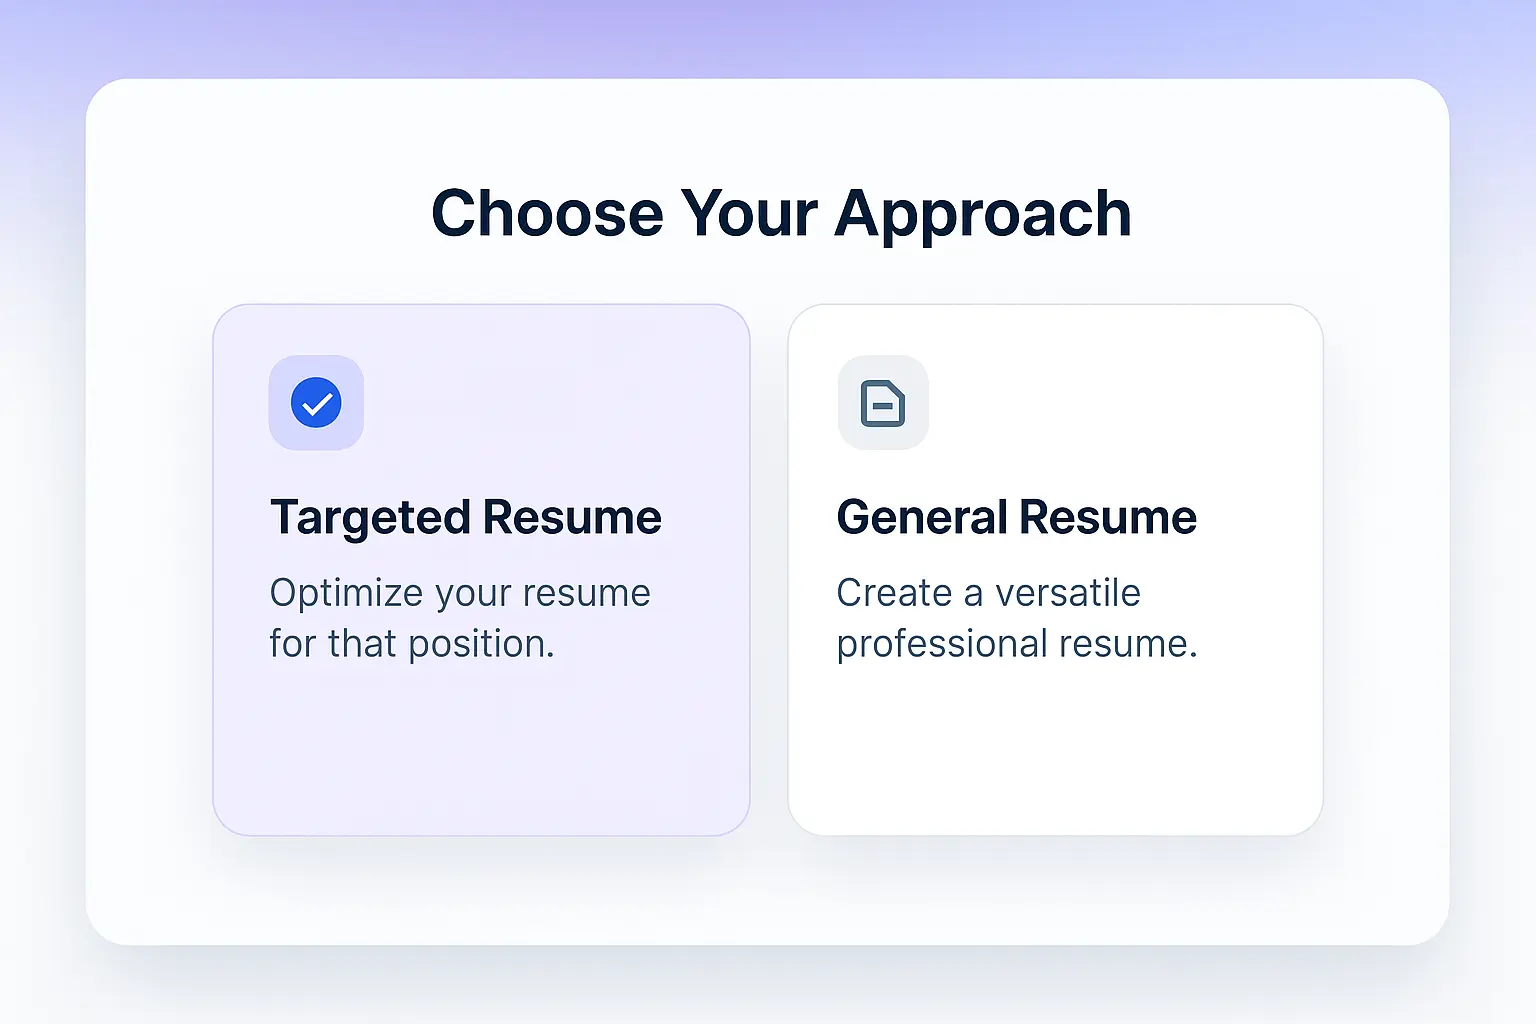
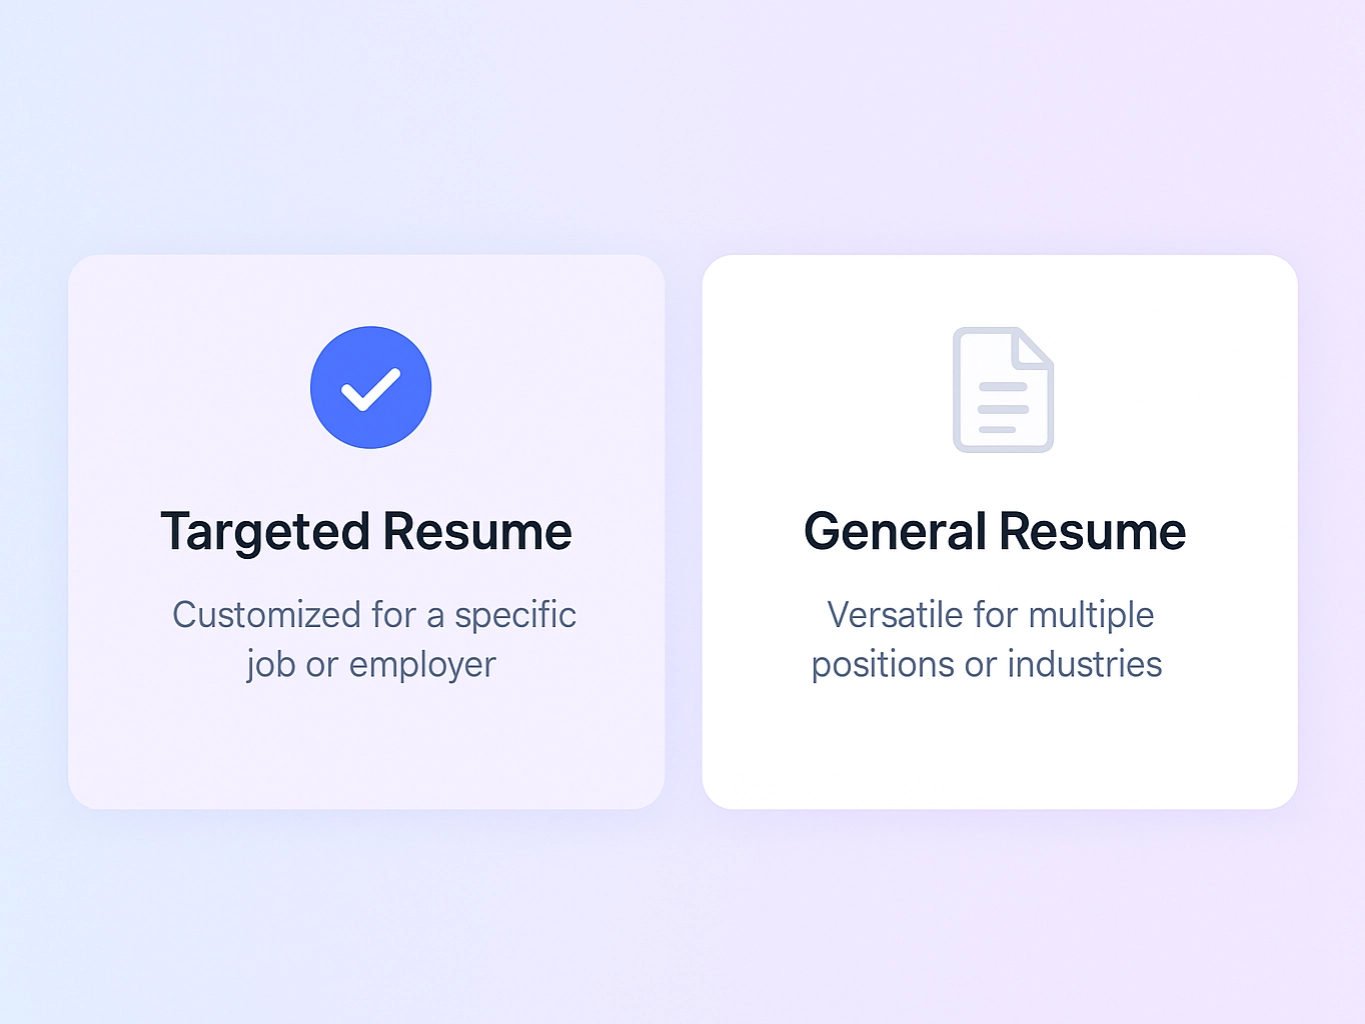
feat: images and design

diff --git a/components/marketing/HowItWorks.tsx b/components/marketing/HowItWorks.tsx
@@ -20,17 +20,17 @@ const HowItWorks = () => {
       titleColor: 'from-blue-600 to-purple-600',
       description: (
         <div className="space-y-3">
-          <p className="text-blue-600 font-bold">
+          <p className="text-gray-700 font-bold">
             Have a specific job in mind?
           </p>
           <p className="text-gray-700 text-sm">
-            Optimize your resume for that <span className="text-purple-600 font-bold">position</span>.
+            Optimize your resume for that position.
           </p>
-          <p className="text-blue-600 font-bold mt-3">
+          <p className="text-gray-700 font-bold mt-3">
             Want a general resume?
           </p>
           <p className="text-gray-700 text-sm">
-            Create a <span className="text-green-600 font-bold">versatile professional</span> resume.
+            Create a versatile professional resume.
           </p>
         </div>
       ),
@@ -44,16 +44,16 @@ const HowItWorks = () => {
       description: (
         <div className="space-y-3">
           <p className="text-gray-700 font-medium">
-            Upload your <span className="text-blue-600 font-bold">current resume</span>, paste text, or connect <span className="text-purple-600 font-bold">LinkedIn</span>.
+            Upload your <span className="text-blue-600 font-bold">current resume</span> or paste text.
           </p>
-          <p className="text-green-600 font-bold mt-3">
+          <p className="text-gray-700 font-bold mt-3">
             No work experience? Include:
           </p>
           <ul className="text-gray-700 text-sm space-y-1 ml-2">
-            <li>• <span className="text-blue-600 font-bold">Academic</span> or personal projects</li>
+            <li>• <span className="text-purple-600 font-bold">Academic</span> or personal projects</li>
             <li>• <span className="text-purple-600 font-bold">Internships</span> or volunteering</li>
-            <li>• Courses and <span className="text-green-600 font-bold">certifications</span></li>
-            <li>• <span className="text-blue-600 font-bold">Technical skills</span></li>
+            <li>• Courses and <span className="text-purple-600 font-bold">certifications</span></li>
+            <li>• <span className="text-purple-600 font-bold">Technical skills</span></li>
           </ul>
         </div>
       ),
@@ -66,18 +66,17 @@ const HowItWorks = () => {
       titleColor: 'from-green-600 to-blue-600',
       description: (
         <div className="space-y-3">
-          <p className="text-gray-700 font-medium">
-            In <span className="text-green-600 font-bold">30 seconds</span>, our{' '}
+          <p className="text-gray-700 font-bold">
+            In 30 seconds, our{' '}
             <span className="bg-gradient-to-r from-blue-600 to-purple-600 bg-clip-text text-transparent font-bold">
               AI
             </span>:
           </p>
           <ul className="text-gray-700 text-sm space-y-1">
-            <li>• <span className="font-bold">Rewrites</span> bullets with <span className="text-blue-600 font-bold">impact verbs</span></li>
-            <li>• <span className="text-green-600 font-bold">Quantifies</span> achievements when possible</li>
-            <li>• <span className="font-bold">Extracts</span> and adds <span className="text-purple-600 font-bold">relevant keywords</span></li>
-            <li>• <span className="font-bold">Optimizes</span> format to pass <span className="text-blue-600 font-bold">ATS</span></li>
-            <li>• <span className="font-bold">Generates</span> <span className="text-green-600 font-bold">professional summary</span></li>
+            <li>• <span className="text-blue-600 font-bold">Rewrites</span> bullets with <span className=" font-bold">impact verbs</span></li>
+            <li>• <span className="text-blue-600 font-bold">Extracts</span> and adds <span className="font-bold">relevant keywords</span></li>
+            <li>• <span className="text-blue-600 font-bold">Optimizes</span> format to pass <span className=" font-bold">ATS</span></li>
+            <li>• <span className="text-blue-600 font-bold">Generates</span> <span className="font-bold">professional summary</span></li>
           </ul>
         </div>
       ),
@@ -90,13 +89,13 @@ const HowItWorks = () => {
       titleColor: 'from-blue-600 to-green-600',
       description: (
         <div className="space-y-3">
-          <p className="text-blue-600 font-bold">
+          <p className="text-gray-700 font-bold">
             Your resume is ready:
           </p>
           <ul className="text-gray-700 text-sm space-y-1">
             <li>• <span className="text-green-600 font-bold">ATS score</span> + suggestions (if targeted)</li>
-            <li>• Professional <span className="text-purple-600 font-bold">PDF</span> with <span className="text-green-600 font-bold">no paywall</span></li>
-            <li>• <span className="text-blue-600 font-bold">Editable</span> anytime</li>
+            <li>• Professional <span className="text-green-600 font-bold">PDF</span> with <span className="text-green-600 font-bold">no paywall</span></li>
+            <li>• <span className="text-green-600 font-bold">Editable</span> anytime</li>
           </ul>
         </div>
       ),
@@ -143,10 +142,10 @@ const HowItWorks = () => {
                 {step.description}
               </div>
 
-              <div className="aspect-[4/3] bg-gray-100 rounded-lg sm:rounded-xl overflow-hidden shadow-md mt-auto relative">
+              <div className="aspect-[4/3] bg-gray-100 shadow-md mt-auto relative">
                 <img
                   alt={step.altText}
-                  className="w-full h-full object-cover"
+                  className="w-full h-full object-fill rounded-xl"
                   src={step.imageUrl}
                 />
               </div>

diff --git a/components/marketing/WhyYoursDontWork.tsx b/components/marketing/WhyYoursDontWork.tsx
@@ -23,8 +23,8 @@ const WhyYoursDontWork = () => {
   const problems = [
     {
       icon: (
-        <div className="w-12 h-12 rounded-full bg-gray-100 flex items-center justify-center">
-          <svg className="w-6 h-6 text-gray-600" fill="none" stroke="currentColor" viewBox="0 0 24 24">
+        <div className="w-12 h-12 rounded-full bg-blue-100 flex items-center justify-center">
+          <svg className="w-6 h-6 text-blue-600" fill="none" stroke="currentColor" viewBox="0 0 24 24">
             <path strokeLinecap="round" strokeLinejoin="round" strokeWidth={2} d="M9.75 17L9 20l-1 1h8l-1-1-.75-3M3 13h18M5 17h14a2 2 0 002-2V5a2 2 0 00-2-2H5a2 2 0 00-2 2v10a2 2 0 002 2z" />
           </svg>
         </div>
@@ -74,8 +74,8 @@ const WhyYoursDontWork = () => {
     },
     {
       icon: (
-        <div className="w-12 h-12 rounded-full bg-purple-100 flex items-center justify-center">
-          <svg className="w-6 h-6 text-purple-600" fill="none" stroke="currentColor" viewBox="0 0 24 24">
+        <div className="w-12 h-12 rounded-full bg-blue-100 flex items-center justify-center">
+          <svg className="w-6 h-6 text-blue-600" fill="none" stroke="currentColor" viewBox="0 0 24 24">
             <path strokeLinecap="round" strokeLinejoin="round" strokeWidth={2} d="M9 12h6m-6 4h6m2 5H7a2 2 0 01-2-2V5a2 2 0 012-2h5.586a1 1 0 01.707.293l5.414 5.414a1 1 0 01.293.707V19a2 2 0 01-2 2z" />
           </svg>
         </div>
@@ -119,8 +119,8 @@ const WhyYoursDontWork = () => {
     },
     {
       icon: (
-        <div className="w-12 h-12 rounded-full bg-green-100 flex items-center justify-center">
-          <svg className="w-6 h-6 text-green-600" fill="none" stroke="currentColor" viewBox="0 0 24 24">
+        <div className="w-12 h-12 rounded-full bg-blue-100 flex items-center justify-center">
+          <svg className="w-6 h-6 text-blue-600" fill="none" stroke="currentColor" viewBox="0 0 24 24">
             <path strokeLinecap="round" strokeLinejoin="round" strokeWidth={2} d="M12 8v4l3 3m6-3a9 9 0 11-18 0 9 9 0 0118 0z" />
           </svg>
         </div>
@@ -175,7 +175,7 @@ const WhyYoursDontWork = () => {
               {/* Icon and Title */}
               <div className="mb-3 sm:mb-4">
                 {problem.icon}
-                <h3 className={`text-base sm:text-lg font-bold ${problem.titleColor} mt-3`}>
+                <h3 className={`text-base sm:text-lg font-bold text-blue-600 mt-3`}>
                   {problem.title}
                 </h3>
                 <p className="text-xs sm:text-sm text-gray-500 font-medium">
@@ -206,7 +206,7 @@ const WhyYoursDontWork = () => {
                 ResumeSmart
                 </span>{' '}
                 shows you your ATS score{' '}
-                <span className="font-bold text-green-600">BEFORE</span> you apply
+                <span className="font-bold text-purple-600">BEFORE</span> you apply
                 </p>
             </div>
         </div>
